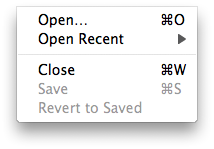
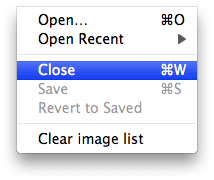
Add clear item list to to help

Changed region(s): [[0.0561, 0.0268, 0.9252, 0.6443], [0.0561, 0.6711, 0.9252, 0.8591]]

diff --git a/GeoTagHelp/menu.html b/GeoTagHelp/menu.html
@@ -57,7 +57,7 @@ The GeoTag, File, and Edit menus look like:
      alt="GeoTag menu">
 
 <img src="images/file.png"
-     style="vertical-align: top; width: 214px; height: 149px;"
+     style="vertical-align: top; width: 214px; height: 180px;"
      alt="File menu">
 
 <img src="images/edit.png"
@@ -84,6 +84,8 @@ The GeoTag, File, and Edit menus look like:
 <li>Revert to Saved: throw away all location changes made since the last
     time you selected Save or Revert to Saved.  Note: you can not undo
     past a Revert to Saved operation.</li>
+<li>Clear image list: Empty the list of images.  This menu item is not
+    active if any of the images in the list have unsaved changes.
 <li>Undo and Redo: Location changes can be reverted using Undo and
     re-applied using Redo.
 <li>Cut, Copy, Paste, and Delete: these menu selections only work on
